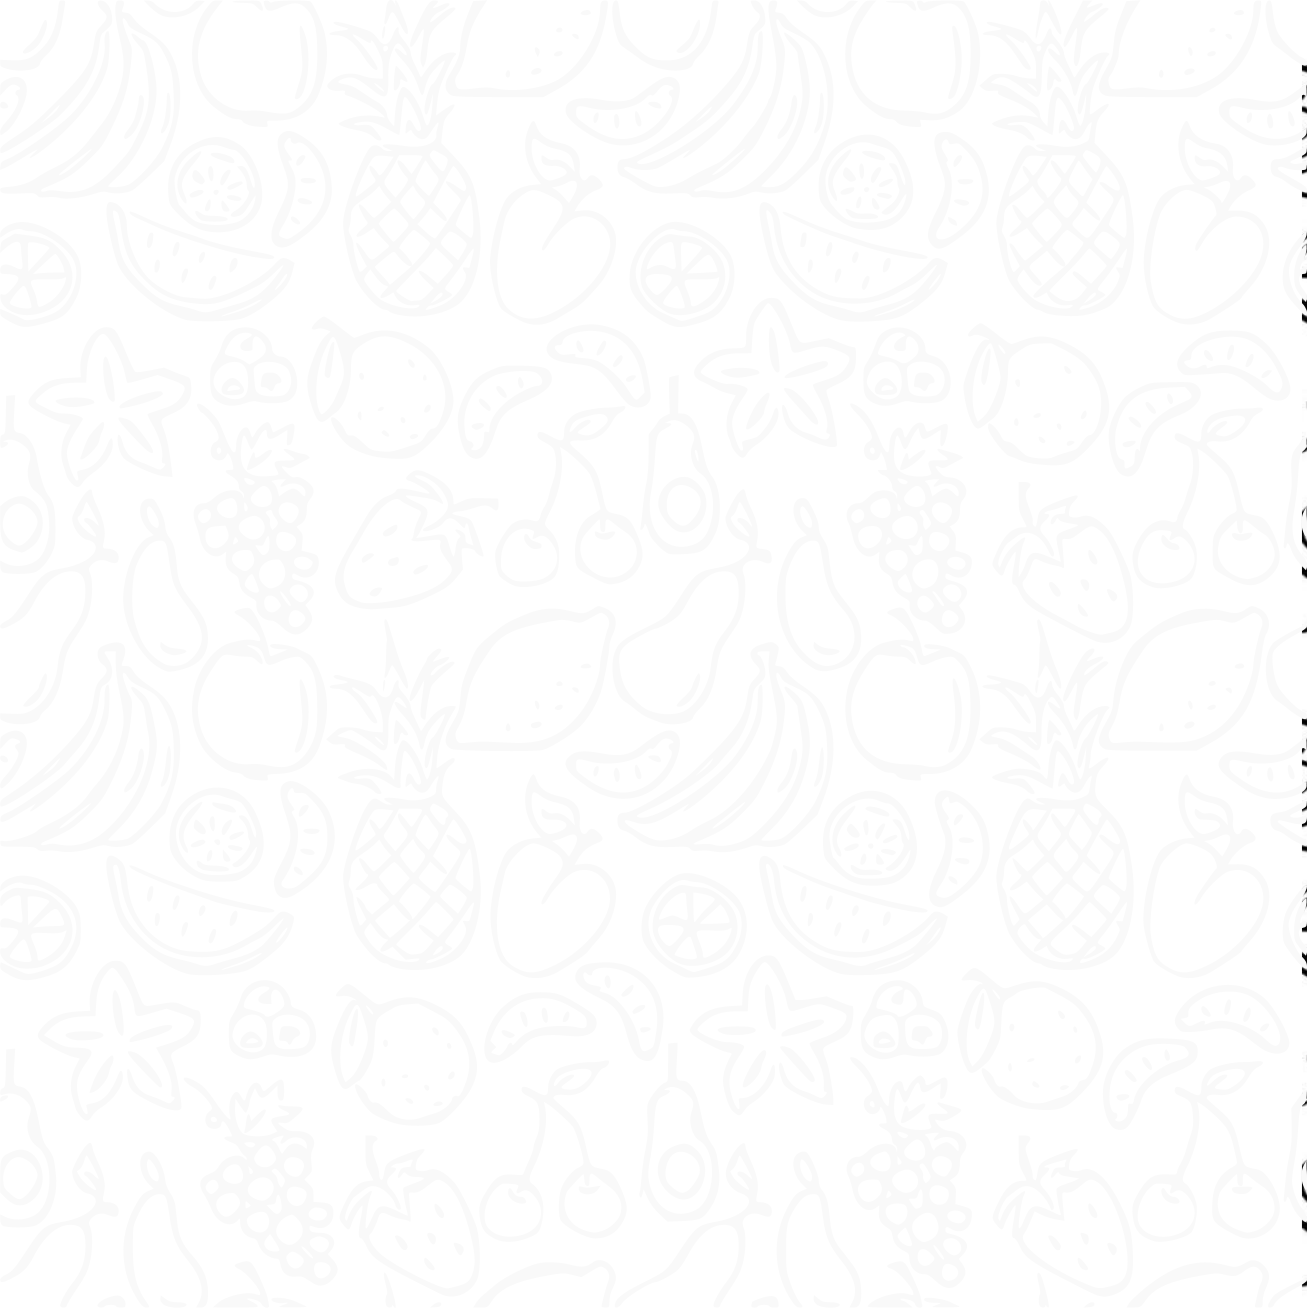
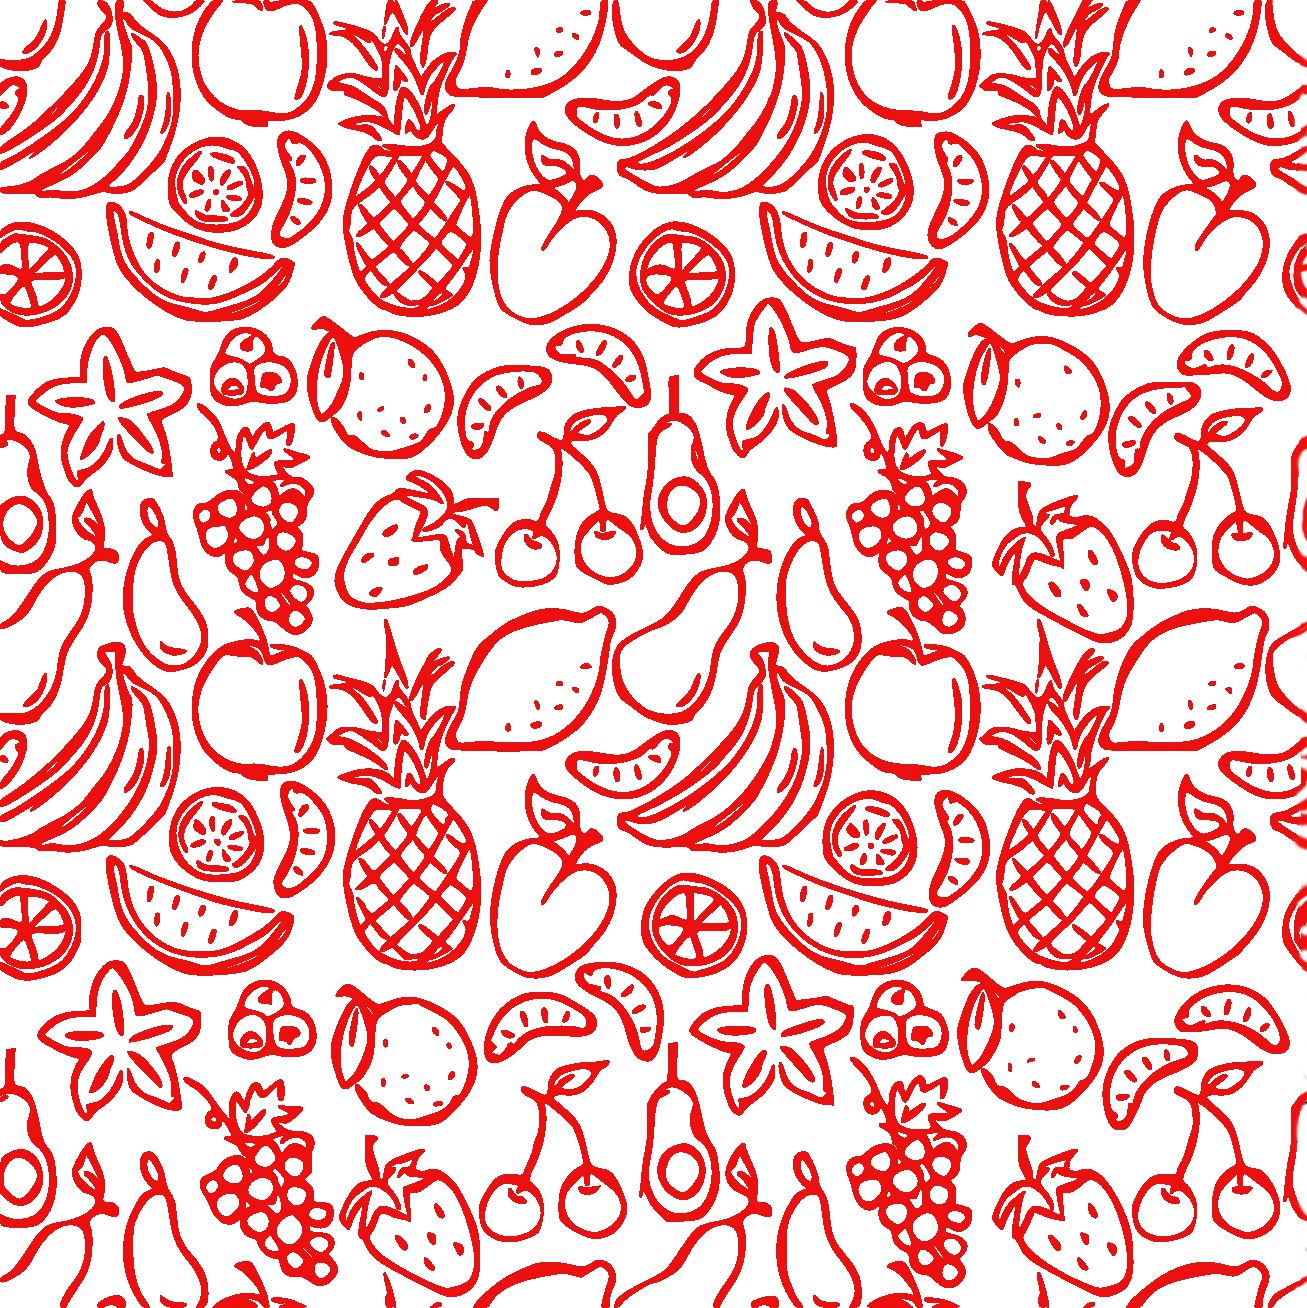
Arreglo y nuevos fondos

Changed region(s): [[0.0, 0.0, 1.0, 1.0]]

diff --git a/styles.css b/styles.css
@@ -106,17 +106,53 @@ body {
 .barra-elotes {
     color: #ffbf00;
 }
+.barra-elotes::before {
+    content: "";
+    position: absolute;
+    width: 100%;
+    height: 100%;
+    background-image: url(img/Elotes.webp);
+    background-size: contain;
+    background-position: center;
+    border-radius: 30px;
+    z-index: -1;
+    opacity: 0.3;
+}
 .barra-elotes button {
     background: #ffbf00;
 }
 .barra-fruta {
     color: #ff0000;
 }
+.barra-fruta::before {
+    content: "";
+    position: absolute;
+    width: 100%;
+    height: 100%;
+    background-image: url(img/Frutas.webp);
+    background-size: contain;
+    background-repeat: repeat;
+    z-index: -1;
+    border-radius: 30px;
+    opacity: 0.15;
+}
 .barra-fruta button {
     background: #ff0000;
 }
 .barra-hotcakes {
     color: #b67b42;
+}
+.barra-hotcakes::before {
+    content: "";
+    position: absolute;
+    width: 100%;
+    height: 100%;
+    background-image: url(img/Hotcakes.webp);
+    background-size: contain;
+    z-index: -1;
+    background-repeat: repeat;
+    border-radius: 30px;
+    opacity: 0.3;
 }
 .barra-hotcakes button {
     background: #b67b42;
@@ -152,6 +188,12 @@ body {
 .descripcion {
     font-size: 1.2rem;
     color: inherit;
+    font-weight: 600;
+    text-shadow:
+    1px 1px 0 #ffffff,
+    -1px 1px 0 #ffffff,
+    -1px -1px 0 #ffffff,
+    1px -1px 0 #ffffff;
     margin: 0.5rem 0 1rem 0;
     opacity: 0.95;
 }
@@ -165,6 +207,11 @@ body {
     font-size: 2.4rem;
     margin: 0 0 0.5rem 0;
     font-weight: 600;
+    text-shadow:
+    1px 1px 0 #ffffff,
+    -1px 1px 0 #ffffff,
+    -1px -1px 0 #ffffff,
+    1px -1px 0 #ffffff;
     color: inherit;
 }
 .seccion ul {
@@ -350,22 +397,6 @@ body {
     height: 40vh;
 }
 
-.seccion li {
-    padding: 0.1rem 0;
-    font-size: 1.1rem;
-    position: relative;
-    padding-left: 1.5rem;
-    line-height: 1.3;
-}
-
-.seccion li::before {
-    content: "•";
-    position: absolute;
-    left: 0;
-    color: #ffd780;
-    font-weight: bold;
-}
-
 
 .contenedor {
     position: relative;
@@ -378,10 +409,6 @@ body {
     align-items: center;
     gap: 2rem;
     flex-wrap: wrap;
-}
-
-.col {
-    flex-direction: column;
 }
 
 .tituloContenedor{
@@ -517,11 +544,4 @@ body {
     .imagen-espacios {
         display: none;
     }
-    .barra-elotes::before {
-    background-image: url(img/Elotes.webp);
-    background-color: #ffcc00;
-    /* Mezcla la imagen y el fondo. Puedes probar con: multiply, screen, overlay */
-    background-blend-mode: multiply; 
-    filter: brightness(0.8) hue-rotate(10deg);
-}
 }

diff --git a/scripts.js b/scripts.js
@@ -12,8 +12,14 @@ document.addEventListener('DOMContentLoaded', () => {
     if (btnVerOrden) {
         btnVerOrden.addEventListener('click', () => {
             const copiaOrden = document.getElementById('copiar-orden');
-            if (copiaOrden) {
-                copiaOrden.scrollIntoView({ behavior: 'smooth', block: 'center' });
+            const resumenOrden = document.querySelector('.resumen-orden-container');
+            const destino = copiaOrden && copiaOrden.offsetParent !== null ? copiaOrden : resumenOrden;
+
+            if (destino) {
+                destino.scrollIntoView({ behavior: 'smooth', block: 'center' });
+                if (copiaOrden) {
+                    copiaOrden.focus({ preventScroll: true });
+                }
             }
         });
     }
